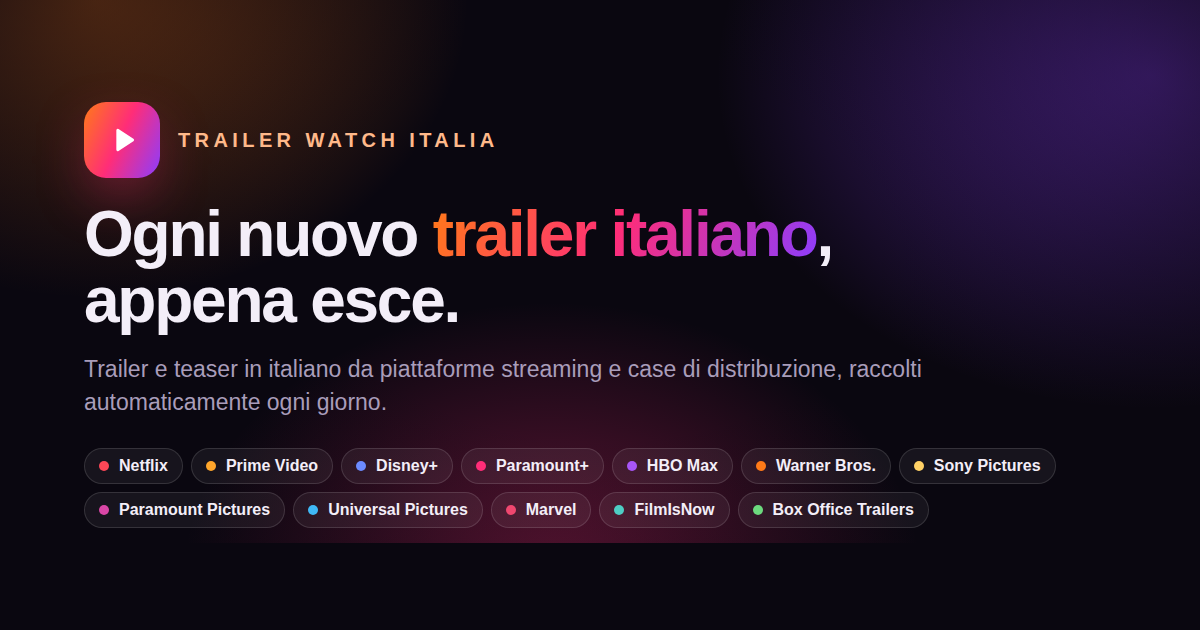
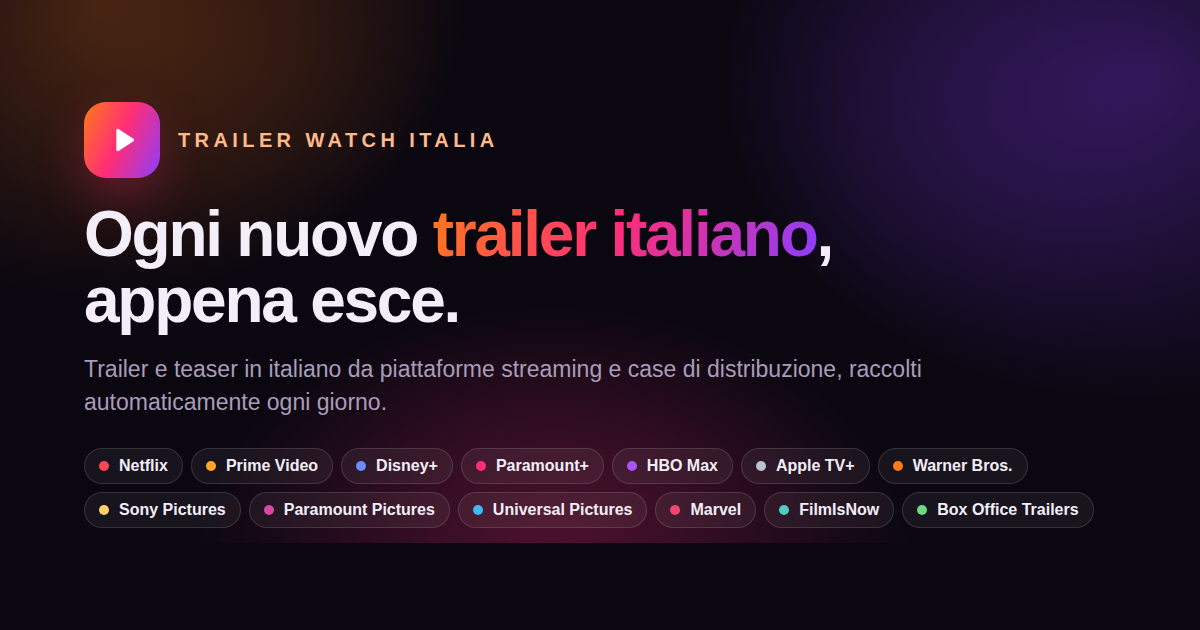
Aggiunge il canale Apple TV+
Tredicesimo canale monitorato: Apple TV+ @AppleTV, con colore dedicato
nei filtri e nei badge, immagine Open Graph rigenerata ed elenco dei
canali aggiornato nel README.

È l'unico canale internazionale della lista: non esiste un equivalente
italiano di @AppleTV, quindi pubblicherà anche trailer non doppiati, in
inglese. Il filtro per parole chiave intercetta "trailer" e "teaser" in
entrambe le lingue, perciò entreranno in elenco come gli altri. È
documentato nel README insieme al modo per escluderlo.

Il colore scelto è un grigio argento: tutte le tinte sature erano già
assegnate agli altri dodici canali, e il grigio richiama l'identità
monocromatica del marchio restando distinguibile sul fondo scuro.

Nel README l'esempio su come aggiungere una piattaforma usava proprio
Apple TV+ come segnaposto: ora che il canale è reale sarebbe stato
fuorviante, quindi l'esempio è stato cambiato.

Verificato: 13 canali senza handle né colori duplicati, pagina con 14
pillole di filtro su due righe senza overflow, filtro funzionante con
?canale=apple-tv-plus, e immagine Open Graph con tutte le etichette
leggibili.

Claude-Session: https://claude.ai/code/session_012jUxL6i6BUAcpk266D3XWA

Changed region(s): [[0.0617, 0.7841, 0.8942, 0.8444], [0.6167, 0.7238, 0.8633, 0.754]]

diff --git a/index.html b/index.html
@@ -661,6 +661,7 @@ footer a:hover{color:var(--fuchsia);}
     "Disney+":"#6c8bff",
     "Paramount+":"#ff2d78",
     "HBO Max":"#a855f7",
+    "Apple TV+":"#b9c2d0",
     "Warner Bros.":"#ff7a18",
     "Sony Pictures":"#ffd166",
     "Paramount Pictures":"#d946a6",

diff --git a/scripts/check_trailers.py b/scripts/check_trailers.py
@@ -35,6 +35,8 @@ CHANNELS = [
     {"name": "Disney+", "handle": "DisneyPlusIT"},
     {"name": "Paramount+", "handle": "ParamountPlusIT"},
     {"name": "HBO Max", "handle": "hbomaxit"},
+    # canale internazionale: pubblica anche titoli non doppiati in italiano
+    {"name": "Apple TV+", "handle": "AppleTV"},
     # distribuzione cinematografica
     {"name": "Warner Bros.", "handle": "WarnerBrosItalia"},
     {"name": "Sony Pictures", "handle": "SonyPicturesIT"},

diff --git a/README.md b/README.md
@@ -59,6 +59,11 @@ solo alle notifiche: è in `.gitignore` e non viene versionato.
 | Disney+ `@DisneyPlusIT` | Paramount Pictures `@ParamountPicturesItalia` | |
 | Paramount+ `@ParamountPlusIT` | Universal Pictures `@UniversalpicturesIt` | |
 | HBO Max `@hbomaxit` | Marvel `@MarvelItaly` | |
+| Apple TV+ `@AppleTV` | | |
+
+`Apple TV+` è l'unico canale internazionale della lista: non esiste un equivalente
+italiano, quindi pubblica anche trailer non doppiati. Se i titoli in inglese danno
+fastidio, basta rimuovere la sua riga da `CHANNELS`.
 
 `FilmIsNow` e `Box Office Trailers` sono aggregatori, non canali ufficiali: pubblicano
 parecchi video al giorno, quindi peseranno sui risultati più degli altri. Per toglierli
@@ -107,7 +112,7 @@ In `scripts/check_trailers.py`, aggiungi una voce alla lista `CHANNELS` con il n
 mostrare e l'handle YouTube del canale:
 
 ```python
-{"name": "Apple TV+", "handle": "AppleTVIT"},
+{"name": "Rai Play", "handle": "RaiPlay"},
 ```
 
 Facoltativo: in `index.html`, aggiungi il colore della piattaforma in `CHANNEL_COLORS`.
